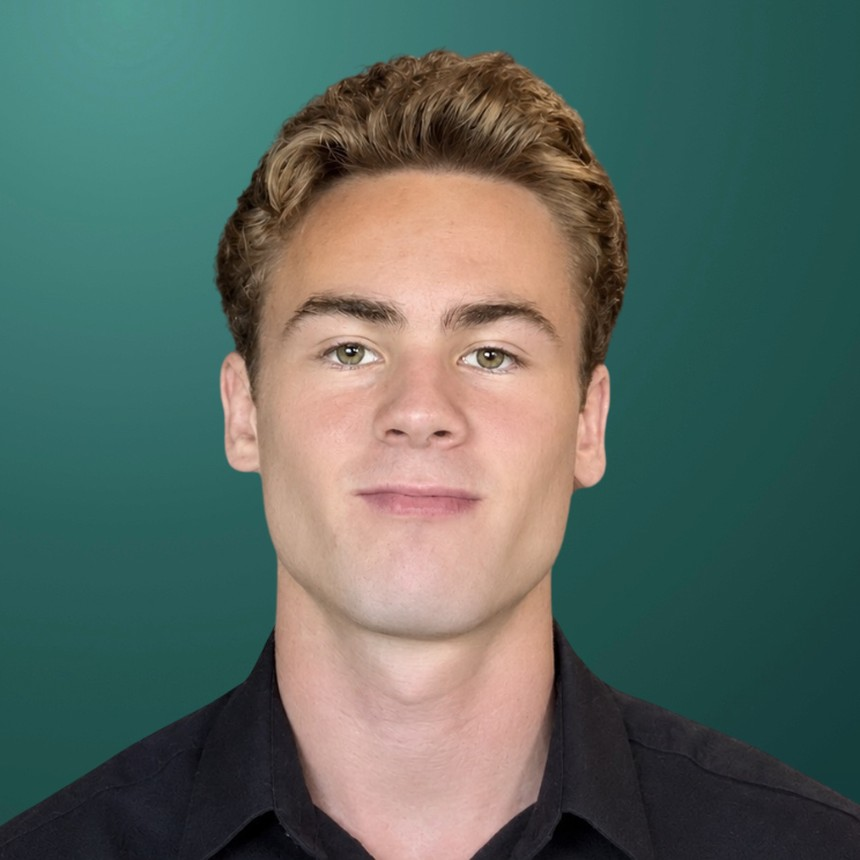
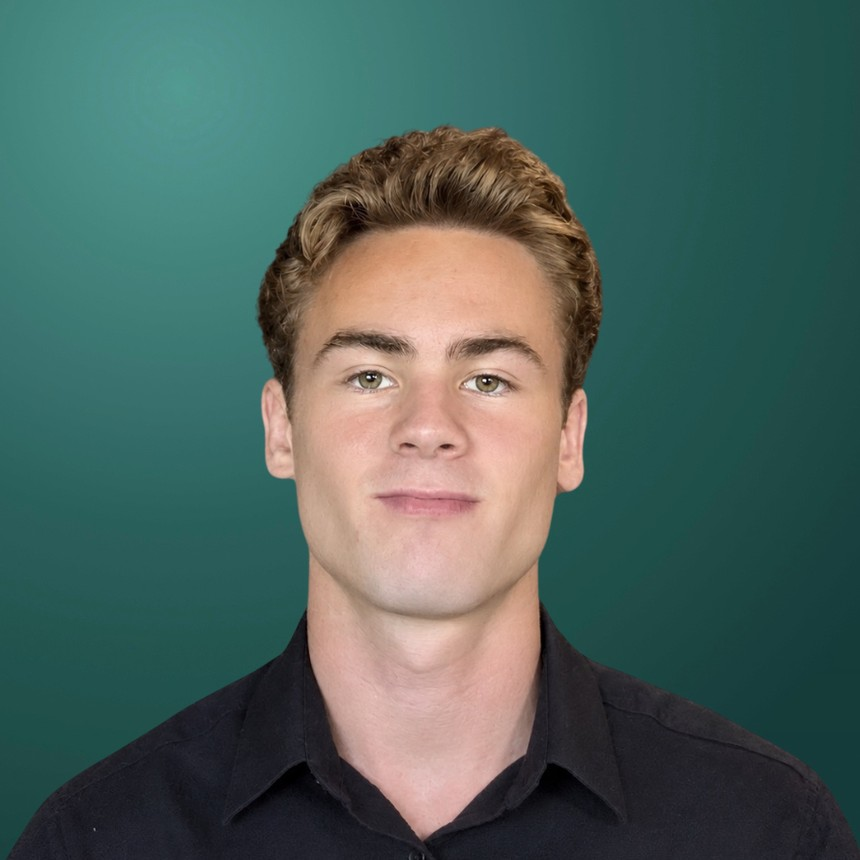
Reframe the profile photo and mount it like a work card
Both crops are now cut from measured landmarks rather than estimates
(head top 23.6% of the plate, eye line 44.3%, face 35.9% wide, centred
at 49.8%); the earlier pair used an eye line about 44px off, which is
part of why the About frame carried so much headroom.

About: tighter, head top at 10.7% of the frame and the face 47.8% of
its width, and the photo now sits on a paper mat inside the project
cards' own hairline, which is invisible laid straight over a dark
photo. Resume circle: zoomed out from a 45% face to 40%, eyes 40% down,
centred.

diff --git a/src/app/page.tsx b/src/app/page.tsx
@@ -331,14 +331,19 @@ I’m a{" "}
             {/* The photo pops on its own (anim-image); no second reveal on
                 the wrapper, which stacked a rise on top of the pop. */}
             <div className="relative max-w-[380px]">
-              <Image
-                src={img("/images/about/owen-brown-portrait-3.jpg")}
-                sizes="(min-width: 768px) 380px, 100vw"
-                alt="Owen Brown"
-                width={760}
-                height={950}
-                className="anim-image aspect-[4/5] w-full border border-white/15 object-cover shadow-2xl"
-              />
+              {/* Mounted like a work card: the same hairline the project
+                  frames carry, on a paper mat, because that border is
+                  invisible laid straight over a dark photo. */}
+              <div className="border border-[rgba(15,35,32,0.12)] bg-bg p-2 shadow-2xl">
+                <Image
+                  src={img("/images/about/owen-brown-portrait-3.jpg")}
+                  sizes="(min-width: 768px) 380px, 100vw"
+                  alt="Owen Brown"
+                  width={760}
+                  height={950}
+                  className="anim-image aspect-[4/5] w-full object-cover"
+                />
+              </div>
             </div>
             <div>
               <p className="reveal-up words max-w-[52ch] text-[clamp(1.05rem,1.8vw,1.3rem)] leading-relaxed text-white/75">
